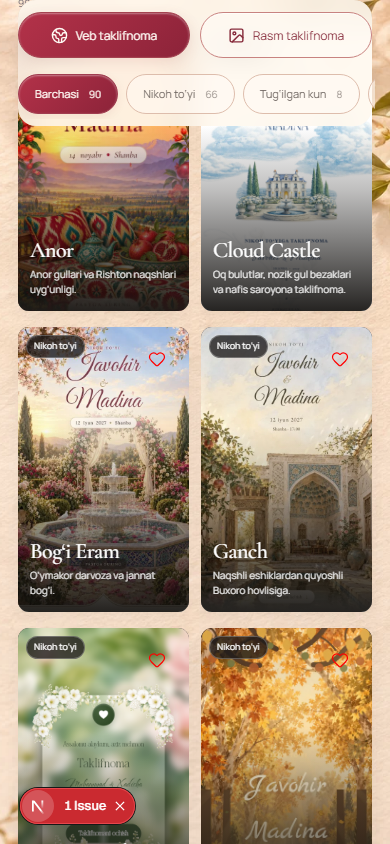
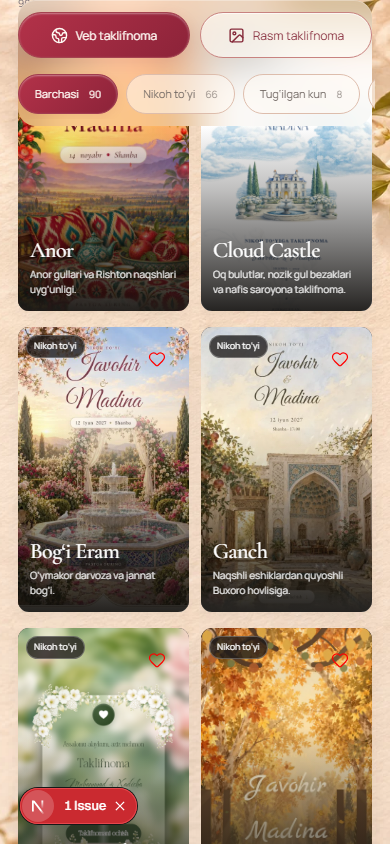
Lighten catalog panels for a frosted glass finish

Changed region(s): [[0.0308, 0.0, 0.9538, 0.154], [0.3385, 0.9242, 0.3692, 0.9858]]

diff --git a/apps/web/src/app/templates/templates.module.css b/apps/web/src/app/templates/templates.module.css
@@ -76,8 +76,9 @@
   padding: 16px 20px 16px 24px;
   border-left: 1px solid #d6c0a4;
   border-radius: 0 20px 20px 0;
-  background: rgb(255 248 237 / 66%);
-  backdrop-filter: blur(12px);
+  background: rgb(255 248 237 / 24%);
+  backdrop-filter: blur(20px) saturate(115%);
+  box-shadow: inset 0 1px 0 rgb(255 255 255 / 30%);
 }
 .collection {
   display: inline-flex;
@@ -164,6 +165,7 @@
     border: 0;
     background: none;
     backdrop-filter: none;
+    box-shadow: none;
   }
   .intro p {
     max-width: 420px;

diff --git a/apps/web/src/modules/catalog/template-gallery.module.css b/apps/web/src/modules/catalog/template-gallery.module.css
@@ -132,8 +132,9 @@
   scroll-margin-top: 0;
 }
 .filters[data-pinned="true"] {
-  background: rgb(255 248 238 / 88%);
-  backdrop-filter:blur(14px);
+  background: rgb(255 248 238 / 28%);
+  backdrop-filter: blur(24px) saturate(115%);
+  box-shadow: inset 0 1px 0 rgb(255 255 255 / 30%);
 }
 .filterAnchor {
   grid-column: 1 / -1;

diff --git a/IMPLEMENTATION_DECISIONS.md b/IMPLEMENTATION_DECISIONS.md
@@ -14,6 +14,9 @@
 - Implementation: original generated ivory/peach floral and embossed-envelope
   artwork with Uzbek ornament at the edges; local WebP asset, live accessible
   page content above it, responsive framing and translucent filter controls.
+- User refinement: the hero intro panel and pinned category bar should look like
+  frosted glass with more artwork showing through, rather than white panels.
+  Use a light 24–28% ivory tint with stronger blur; keep other styling unchanged.
 
 ## Static image invitations (2026-11-03)
 
